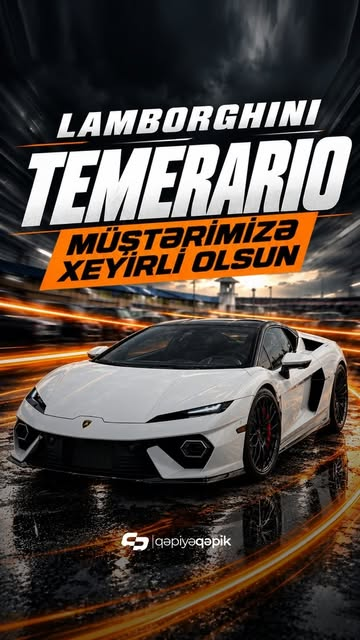
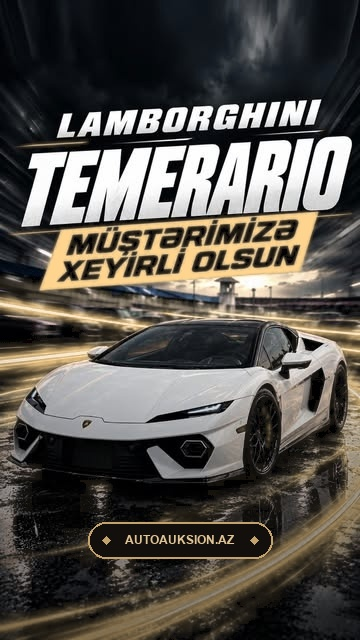
style(sand): transform palette & all car lot images to Desert Sand Gold + luxury emblem

Changed region(s): [[0.0, 0.3125, 1.0, 1.0], [0.0611, 0.2188, 0.2444, 0.25], [0.7333, 0.625, 0.7639, 0.7188]]

diff --git a/index.html b/index.html
@@ -9,53 +9,53 @@
   <link rel="preconnect" href="https://fonts.gstatic.com" crossorigin>
   <link href="https://fonts.googleapis.com/css2?family=Inter:wght@400;500;600;700;800&family=JetBrains+Mono:wght@500;600;700&family=Space+Grotesk:wght@600;700&display=swap" rel="stylesheet">
   <style>
-    /* DEFAULT: LIGHT THEME (WHITE SHOWROOM BACKGROUND — POLESTAR × PORSCHE) */
+    /* DEFAULT: LIGHT THEME (LUXURY DESERT SAND & ALABASTER SHOWROOM) */
     :root,
     [data-theme="light"] {
-      --bg-primary: #F8FAFC;
+      --bg-primary: #FAF7F2;
       --bg-secondary: #FFFFFF;
       --bg-card: #FFFFFF;
-      --bg-card-alt: #F1F5F9;
-      --bg-header: rgba(255, 255, 255, 0.94);
-      --bg-ticker: #0F141C;
-      --text-main: #0F172A;
-      --text-sub: #475569;
-      --text-muted: #64748B;
-      --orange-core: #F25800;
-      --orange-bright: #FF6600;
-      --orange-subtle: rgba(242, 88, 0, 0.08);
-      --orange-badge: rgba(242, 88, 0, 0.12);
-      --border-grid: #E2E8F0;
-      --border-orange: rgba(242, 88, 0, 0.42);
+      --bg-card-alt: #F3EDE2;
+      --bg-header: rgba(250, 247, 242, 0.94);
+      --bg-ticker: #14110D;
+      --text-main: #181410;
+      --text-sub: #574E42;
+      --text-muted: #7C7060;
+      --orange-core: #B89158;
+      --orange-bright: #C8A672;
+      --orange-subtle: rgba(184, 145, 88, 0.10);
+      --orange-badge: rgba(184, 145, 88, 0.15);
+      --border-grid: #E6DEC8;
+      --border-orange: rgba(184, 145, 88, 0.45);
       --emerald-ok: #059669;
       --emerald-bg: rgba(5, 150, 105, 0.10);
-      --shadow-elevated: 0 20px 50px rgba(15, 23, 42, 0.08);
-      --shadow-card: 0 8px 24px rgba(15, 23, 42, 0.05);
-      --grid-line: rgba(15, 23, 42, 0.028);
+      --shadow-elevated: 0 20px 50px rgba(24, 20, 16, 0.08);
+      --shadow-card: 0 8px 24px rgba(24, 20, 16, 0.05);
+      --grid-line: rgba(184, 145, 88, 0.055);
     }
 
-    /* DARK THEME (SIXT × MCLAREN OBSIDIAN CARBON) */
+    /* DARK THEME (OBSIDIAN DUNE & CHAMPAGNE SAND GOLD) */
     [data-theme="dark"] {
-      --bg-primary: #090B10;
-      --bg-secondary: #0F1219;
-      --bg-card: #131720;
-      --bg-card-alt: #0C0F16;
-      --bg-header: rgba(9, 11, 16, 0.92);
-      --bg-ticker: #050609;
-      --text-main: #F8FAFC;
-      --text-sub: #94A3B8;
-      --text-muted: #64748B;
-      --orange-core: #FF6200;
-      --orange-bright: #FF781F;
-      --orange-subtle: rgba(255, 98, 0, 0.12);
-      --orange-badge: rgba(255, 98, 0, 0.16);
-      --border-grid: rgba(255, 255, 255, 0.09);
-      --border-orange: rgba(255, 98, 0, 0.45);
+      --bg-primary: #0D0B09;
+      --bg-secondary: #13100D;
+      --bg-card: #181410;
+      --bg-card-alt: #110E0B;
+      --bg-header: rgba(13, 11, 9, 0.92);
+      --bg-ticker: #070605;
+      --text-main: #FAF7F2;
+      --text-sub: #B8AD9E;
+      --text-muted: #857A6B;
+      --orange-core: #CFB07C;
+      --orange-bright: #DFC394;
+      --orange-subtle: rgba(207, 176, 124, 0.12);
+      --orange-badge: rgba(207, 176, 124, 0.18);
+      --border-grid: rgba(207, 176, 124, 0.13);
+      --border-orange: rgba(207, 176, 124, 0.45);
       --emerald-ok: #10B981;
       --emerald-bg: rgba(16, 185, 129, 0.12);
       --shadow-elevated: 0 24px 64px rgba(0, 0, 0, 0.65);
       --shadow-card: 0 12px 32px rgba(0, 0, 0, 0.45);
-      --grid-line: rgba(255, 255, 255, 0.02);
+      --grid-line: rgba(207, 176, 124, 0.03);
     }
 
     * {
@@ -74,7 +74,7 @@
       background-color: var(--bg-primary);
       color: var(--text-main);
       background-image:
-        radial-gradient(circle at 85% 10%, rgba(255, 98, 0, 0.09) 0%, transparent 38%),
+        radial-gradient(circle at 85% 10%, rgba(196, 162, 110, 0.12) 0%, transparent 38%),
         linear-gradient(to right, var(--grid-line) 1px, transparent 1px),
         linear-gradient(to bottom, var(--grid-line) 1px, transparent 1px);
       background-size: 100% 100%, 56px 56px, 56px 56px;
@@ -202,14 +202,14 @@
     }
 
     .brand-avatar {
-      width: 44px;
-      height: 44px;
-      border-radius: 50%;
+      width: 48px;
+      height: 48px;
+      border-radius: 12px;
       overflow: hidden;
-      border: 2px solid var(--orange-core);
-      box-shadow: 0 4px 14px rgba(242, 88, 0, 0.28);
+      border: 1.5px solid var(--orange-core);
+      box-shadow: 0 6px 18px rgba(184, 145, 88, 0.30);
       flex-shrink: 0;
-      background: var(--orange-core);
+      background: #0E0C0A;
     }
 
     .brand-avatar img {
@@ -345,7 +345,7 @@
     .lang-btn.active {
       background: var(--orange-core);
       color: #fff;
-      box-shadow: 0 2px 8px rgba(242, 88, 0, 0.3);
+      box-shadow: 0 2px 8px rgba(184, 145, 88, 0.3);
     }
 
     .btn-primary {
@@ -355,7 +355,7 @@
       gap: 8px;
       height: 42px;
       padding: 0 18px;
-      background: linear-gradient(135deg, #FF6A00 0%, #E64E00 100%);
+      background: linear-gradient(135deg, #C8A672 0%, #9E7840 100%);
       color: #fff;
       font-weight: 700;
       font-size: 13px;
@@ -363,14 +363,14 @@
       border: 1px solid rgba(255, 255, 255, 0.2);
       text-decoration: none;
       cursor: pointer;
-      box-shadow: 0 6px 20px rgba(242, 88, 0, 0.28);
+      box-shadow: 0 6px 20px rgba(184, 145, 88, 0.28);
       transition: transform 0.2s ease, box-shadow 0.2s ease;
       white-space: nowrap;
     }
 
     .btn-primary:hover {
       transform: translateY(-1px);
-      box-shadow: 0 10px 26px rgba(242, 88, 0, 0.4);
+      box-shadow: 0 10px 26px rgba(184, 145, 88, 0.4);
     }
 
     .btn-outline {
@@ -594,7 +594,7 @@
       color: #fff;
       border-color: var(--orange-core);
       font-weight: 700;
-      box-shadow: 0 4px 12px rgba(242, 88, 0, 0.25);
+      box-shadow: 0 4px 12px rgba(184, 145, 88, 0.25);
     }
 
     .hero-showcase-grid {
@@ -662,11 +662,11 @@
     }
 
     .t-price-box {
-      background: linear-gradient(135deg, #FF6200 0%, #D94600 100%);
+      background: linear-gradient(135deg, #C8A672 0%, #9E7840 100%);
       color: #fff;
       border-radius: 14px;
       padding: 14px 16px;
-      box-shadow: 0 8px 20px rgba(242, 88, 0, 0.25);
+      box-shadow: 0 8px 20px rgba(184, 145, 88, 0.25);
     }
 
     .t-price-lbl {
@@ -755,7 +755,7 @@
       background: var(--orange-core);
       color: #fff;
       border-color: var(--orange-core);
-      box-shadow: 0 4px 14px rgba(242, 88, 0, 0.25);
+      box-shadow: 0 4px 14px rgba(184, 145, 88, 0.25);
     }
 
     /* 9 REAL INSTAGRAM LOTS — 100% EQUAL-HEIGHT SYMMETRIC GRID */

diff --git a/cabinet.css b/cabinet.css
@@ -122,11 +122,11 @@
 }
 
 .cabinet-trigger-btn:hover {
-  background: linear-gradient(135deg, #FF6A00 0%, #E64E00 100%);
+  background: linear-gradient(135deg, #C8A672 0%, #9E7840 100%);
   color: #FFFFFF;
   border-color: transparent;
   transform: translateY(-1px);
-  box-shadow: 0 6px 18px rgba(242, 88, 0, 0.28);
+  box-shadow: 0 6px 18px rgba(184, 145, 88, 0.28);
 }
 
 .cabinet-trigger-btn .cab-status-dot {
@@ -379,7 +379,7 @@
   left: 0;
   right: 0;
   height: 4px;
-  background: linear-gradient(90deg, #FF6A00, #E64E00);
+  background: linear-gradient(90deg, #C8A672, #9E7840);
 }
 
 .auth-provider-list {
@@ -474,7 +474,7 @@
   padding: 0 14px;
   border-radius: 10px;
   border: none;
-  background: linear-gradient(135deg, #FF6A00 0%, #E64E00 100%);
+  background: linear-gradient(135deg, #C8A672 0%, #9E7840 100%);
   color: #FFFFFF;
   font-family: 'Inter', sans-serif;
   font-size: 12.5px;
@@ -515,7 +515,7 @@
   width: 46px;
   height: 46px;
   border-radius: 12px;
-  background: linear-gradient(135deg, #FF6A00 0%, #E64E00 100%);
+  background: linear-gradient(135deg, #C8A672 0%, #9E7840 100%);
   color: #FFFFFF;
   display: inline-flex;
   align-items: center;
@@ -523,7 +523,7 @@
   font-family: 'Space Grotesk', sans-serif;
   font-size: 18px;
   font-weight: 700;
-  box-shadow: 0 6px 16px rgba(242, 88, 0, 0.25);
+  box-shadow: 0 6px 16px rgba(184, 145, 88, 0.25);
   flex-shrink: 0;
 }
 
@@ -703,10 +703,10 @@
 }
 
 .mbb-btn.mbb-primary {
-  background: linear-gradient(135deg, #FF6A00 0%, #E64E00 100%);
+  background: linear-gradient(135deg, #C8A672 0%, #9E7840 100%);
   color: #FFFFFF;
   border-color: transparent;
-  box-shadow: 0 4px 14px rgba(242, 88, 0, 0.3);
+  box-shadow: 0 4px 14px rgba(184, 145, 88, 0.3);
 }
 
 .mbb-btn.mbb-primary svg {
